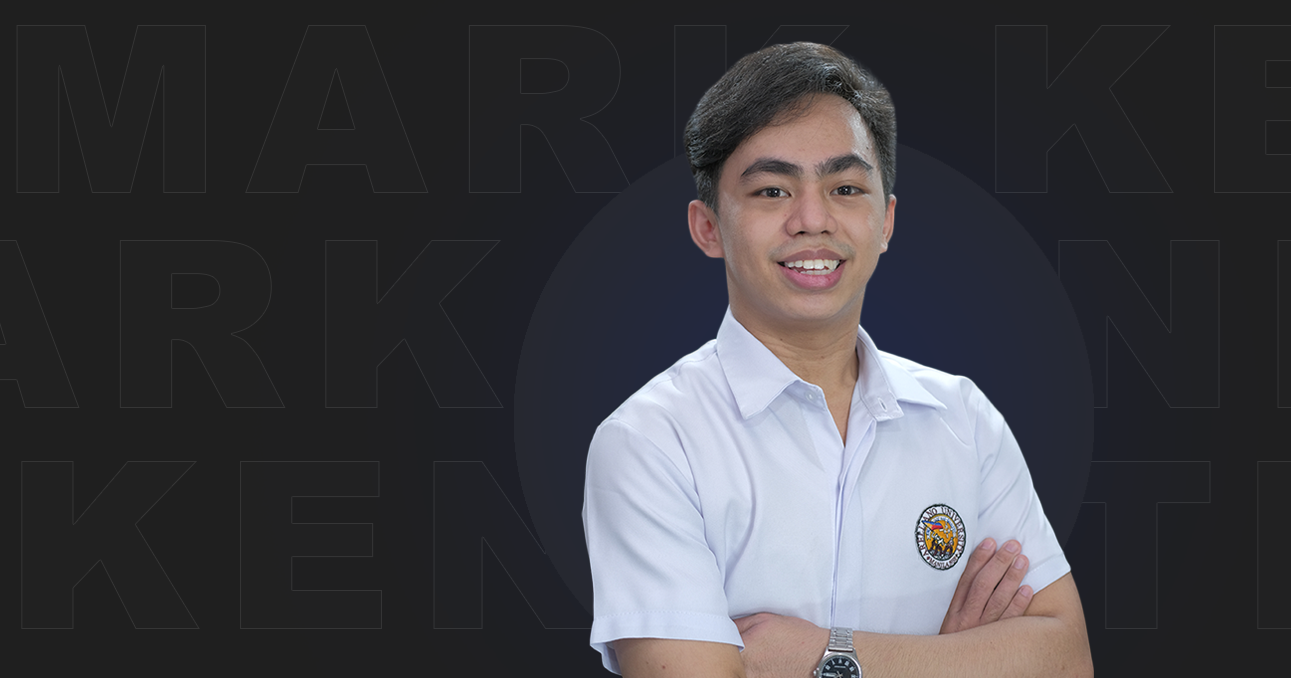
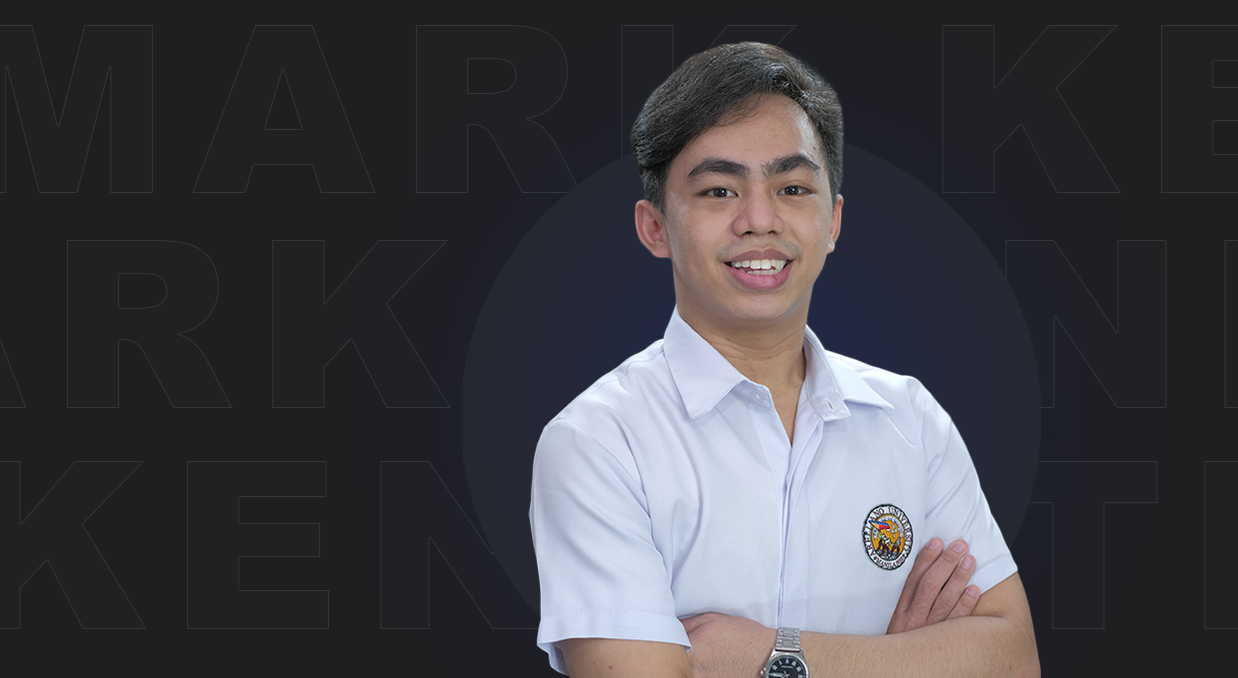
clean illustration assets

Changed region(s): [[0.4297, 0.0619, 0.8595, 1.0]]

diff --git a/client/src/Sass/main.css b/client/src/Sass/main.css
@@ -198,20 +198,6 @@ p {
     width: 100%;
   }
 }
-.banner {
-  height: 600px;
-  overflow: hidden;
-  background-color: rgb(27, 27, 27);
-  color: #F8F8F8;
-  overflow: hidden;
-  position: relative;
-}
-
-@media screen and (min-width: 768px) {
-  .banner {
-    height: 630px;
-  }
-}
 input[type=email],
 input[type=password],
 input[type=text],
@@ -1030,6 +1016,23 @@ footer .container .wrapper .notice p {
     /* make scrollbar transparent */
   }
 }
+.banner {
+  height: 600px;
+  overflow: hidden;
+  background-color: rgb(27, 27, 27);
+  color: #F8F8F8;
+  overflow: hidden;
+  position: relative;
+  background-image: url("../Images/landingpage/Wide-Graphical.png");
+  background-repeat: no-repeat;
+  background-size: cover;
+}
+
+@media screen and (min-width: 768px) {
+  .banner {
+    height: 630px;
+  }
+}
 body {
   background-color: #F9F9F9;
 }
@@ -1253,6 +1256,9 @@ body {
 }
 #featured-projects .container .wrapper .texters a {
   text-decoration: none;
+}
+#featured-projects .container .wrapper .texters button {
+  width: 100%;
 }
 #featured-projects .container .wrapper .projects > * {
   margin: 0 0 30px 0;

diff --git a/client/src/Sass/layout/_banner.scss b/client/src/Sass/layout/_banner.scss
@@ -1,0 +1,17 @@
+.banner {
+  height: 600px;
+  overflow: hidden;
+  background-color: $charcoal;
+  color: $white;
+  overflow: hidden;
+  position: relative;
+  background-image: url('../Images/landingpage/Wide-Graphical.png');
+  background-repeat: no-repeat;
+  background-size: cover;
+}
+
+@media screen and (min-width: 768px) {
+  .banner {
+    height: 630px;
+  }
+}

diff --git a/client/src/Sass/base/_responsive.scss b/client/src/Sass/base/_responsive.scss
@@ -131,18 +131,3 @@
 		width: 100%;
 	}
 }
-
-.banner {
-	height: 600px;
-	overflow: hidden;
-	background-color: $charcoal;
-	color: $white;
-	overflow: hidden;
-	position: relative;
-}
-
-@media screen and (min-width: 768px) {
-	.banner {
-		height: 630px;
-	}
-}

diff --git a/client/src/Sass/main.scss b/client/src/Sass/main.scss
@@ -24,6 +24,7 @@
 @import './layout/loader';
 @import './layout/error';
 @import './layout/modal';
+@import './layout/banner';
 
 @import './pages/landing-page';
 @import './pages/project-page';

diff --git a/client/src/Sass/pages/_landing-page.scss b/client/src/Sass/pages/_landing-page.scss
@@ -253,6 +253,10 @@ body {
 				a {
 					text-decoration: none;
 				}
+
+				button {
+					width: 100%;
+				}
 			}
 
 			.projects {
